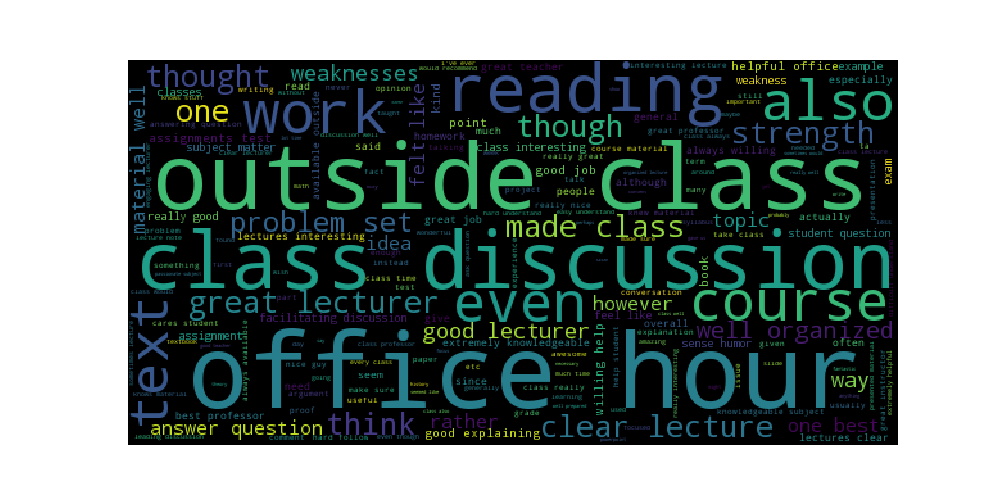
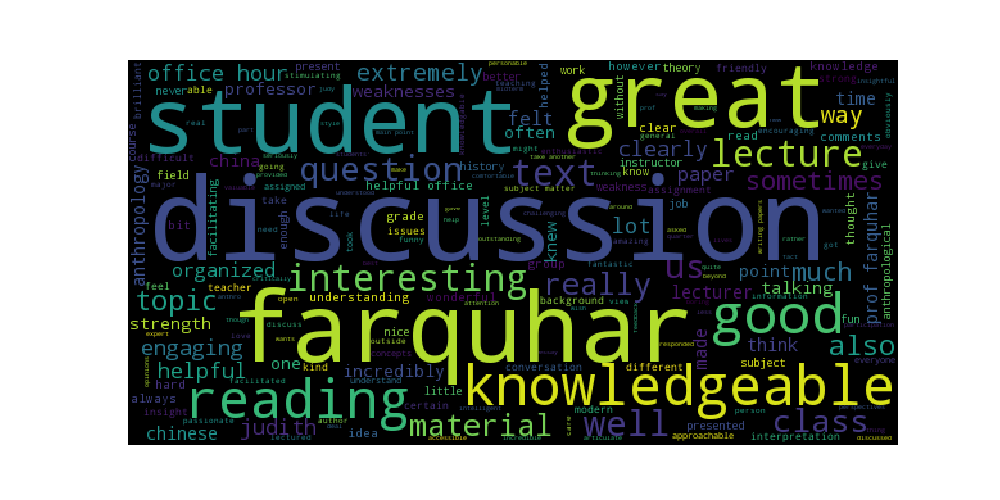
wc and non-time graphs are showing!

Changed region(s): [[0.124, 0.12, 0.899, 0.9]]

diff --git a/django_code/search/templates/index.html b/django_code/search/templates/index.html
@@ -47,7 +47,10 @@
             <p class="num_results", style="font-size:18px;"> Summary of {{ num_results }} evaluations.</p>
             <div class="results">
                 <img src="{% static "/images/wordcloud.png" %}" />
-                <img src="{% static "/images/graph.png" %}" />
+                <img src="{% static "/images/profscore.png" %}" />
+                <img src="{% static "/images/profsent.png" %}" />
+                <img src="{% static "/images/coursescore.png" %}" />
+                <img src="{% static "/images/coursesent.png" %}" />
                 <table class="courses">
                     <tr>
                         {% for col in columns %}

diff --git a/django_code/score_graphs.py b/django_code/score_graphs.py
@@ -123,7 +123,7 @@ def prof_score_graph(args_from_ui):
     title = prof + "'s aggregated scores compared to dept avg."
     plt.title(title)
     plt.ylabel("Aggregated scores from reviews")
-    plt.show()
+    plt.savefig('./static/images/profscore.png')
 
 def prof_sentiment_graph(args_from_ui):
     '''
@@ -135,7 +135,7 @@ def prof_sentiment_graph(args_from_ui):
     title = prof + "'s sentiment scores compared to dept avg."
     plt.title(title)
     plt.ylabel("Sentiment scores from reviews")
-    plt.show()
+    plt.savefig('./static/images/profsent.png')
 
 def course_sentiment_graph(args_from_ui):
     '''
@@ -148,7 +148,7 @@ def course_sentiment_graph(args_from_ui):
     title = "Sentiment scores for " + course + "compared to dept avg."
     plt.title(title)
     plt.ylabel("Sentiment scores from reviews")
-    plt.show()
+    plt.savefig('./static/images/coursesent.png')
 
 def course_score_graph(args_from_ui):
     '''
@@ -161,7 +161,7 @@ def course_score_graph(args_from_ui):
     title = "Aggregated scores for " + course + "compared to dept avg."
     plt.title(title)
     plt.ylabel("Aggregated scores from reviews")
-    plt.show()
+    plt.savefig('./static/images/coursescore.png')
 
 def non_time_graphs(args_from_ui):
     if 'dept' in args_from_ui and 'course_num' in args_from_ui and len(args_from_ui) == 2:
@@ -171,3 +171,7 @@ def non_time_graphs(args_from_ui):
     if 'prof_fn' in args_from_ui and 'prof_ln' in args_from_ui and len(args_from_ui) == 2:
         prof_score_graph(args_from_ui)
         prof_sentiment_graph(args_from_ui)
+
+    elif len(args) == 4:
+        course_and_prof_score_graph(args_from_ui)
+        course_and_prof_sentiment_graph(args_from_ui)

diff --git a/django_code/search/views.py b/django_code/search/views.py
@@ -12,6 +12,7 @@ from django import forms
 
 from courses import find_courses
 from gen_wordcloud import get_wc
+import score_graphs
 #from graphs import graph_it
 
 NOPREF_STR = 'No preference'
@@ -125,13 +126,12 @@ def home(request):
                     result.append(tuple(row))
                 context['result'] = result
                 context['num_results'] = len(res)
-                if len(res) == 0: # the search resulted in no classes
-                    context["wordcloud"] = None
-                else: # there are courses to use to generate the images
-                    context["wordcloud"] = None
+                if len(res) != 0:
+                    # there are courses to use to generate the images
                     # result of courses.py
                     get_wc(args)
                     #graph_it(args)
+                    score_graphs.non_time_graphs(args)
 
             except Exception as e:
                 print('Exception caught')
